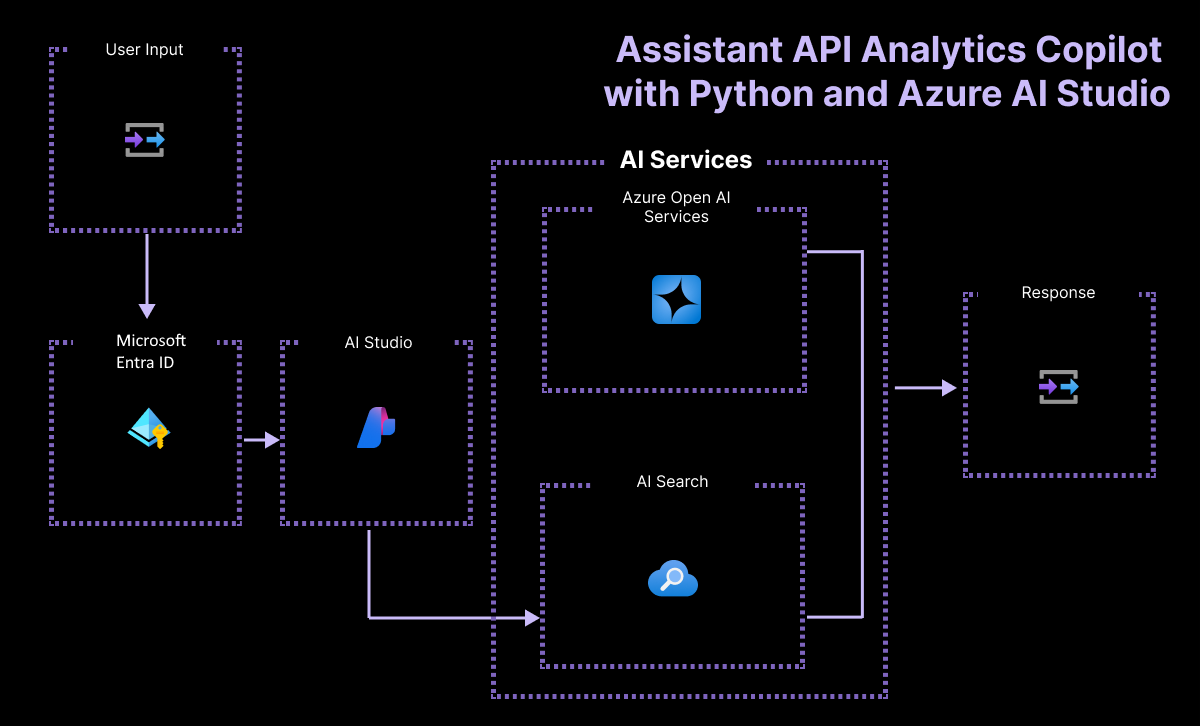
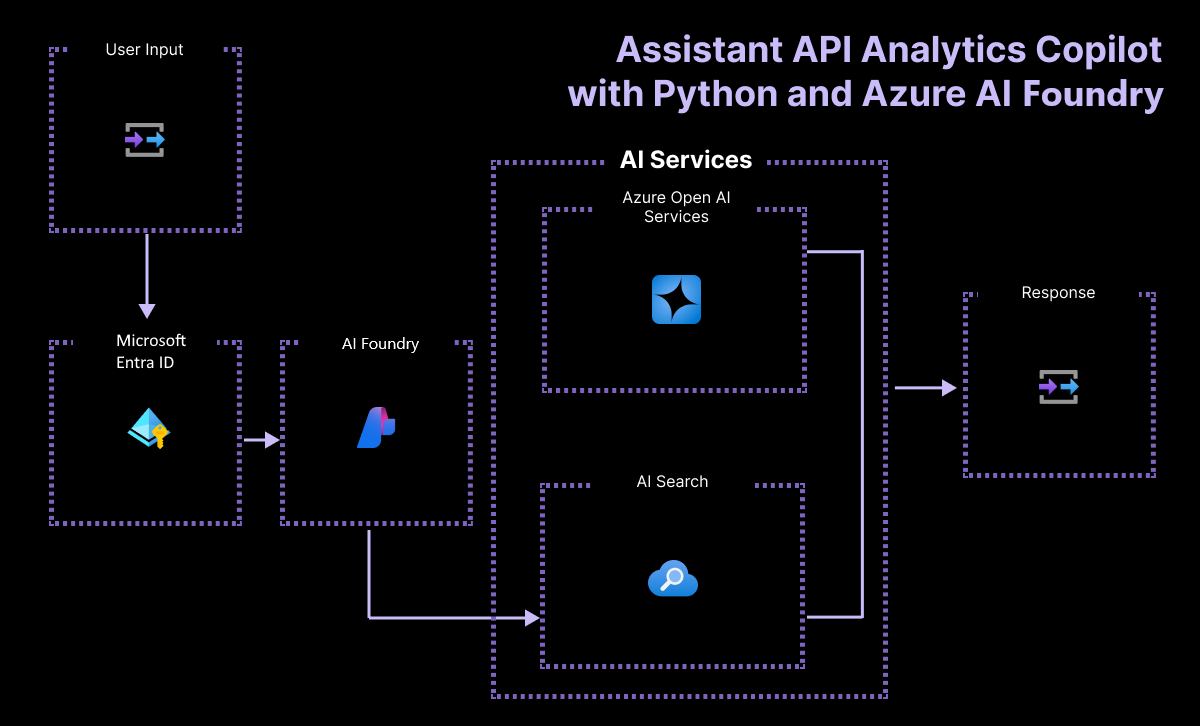
update ai studio to foundry

Changed region(s): [[0.4625, 0.0909, 0.9867, 0.1515], [0.2775, 0.4545, 0.3392, 0.4848]]

diff --git a/articles/azure-developer-cli/azure-ai-ml-endpoints.md b/articles/azure-developer-cli/azure-ai-ml-endpoints.md
@@ -1,6 +1,6 @@
 ---
-title: Deploy to an AI/ML studio online endpoint using the Azure Developer CLI
-description: Learn how to deploy to an AI/ML studio online endpoint using the Azure Developer CLI
+title: Deploy to an Azure AI Foundry portal/ML studio online endpoint using the Azure Developer CLI
+description: Learn how to deploy to an Azure AI Foundry portal/ML studio online endpoint using the Azure Developer CLI
 author: alexwolfmsft
 ms.author: alexwolf
 ms.date: 05/06/2024
@@ -9,9 +9,9 @@ ms.topic: how-to
 ms.custom: devx-track-azdevcli, build-2023
 ---
 
-# Deploy to an AI/ML studio online endpoint using the Azure Developer CLI
+# Deploy to an Azure AI Foundry portal/ML studio online endpoint using the Azure Developer CLI
 
-The Azure Developer CLI enables you to quickly and easily deploy to an [Azure ML Studio](https://ml.azure.com) or [Azure AI Studio](https://ai.azure.com) online endpoint. `azd` supports the following AI/ML studio features, which you'll learn to configure in the sections ahead:
+The Azure Developer CLI enables you to quickly and easily deploy to an [Azure ML Studio](https://ml.azure.com) or [Azure AI Foundry](https://ai.azure.com) online endpoint. `azd` supports the following Azure AI Foundry/ML studio features, which you'll learn to configure in the sections ahead:
 
 * Custom environments
   * Environments can be viewed with [Azure ML Studio](https://ml.azure.com/) under the `Environments` section.
@@ -19,14 +19,14 @@ The Azure Developer CLI enables you to quickly and easily deploy to an [Azure ML
   * Models can be viewed with [Azure ML Studio](https://ml.azure.com/) under the `models` section.
 * Prompt flows
   * Flows can be viewed with [Azure ML Studio](https://ml.azure.com/) under the `flows` section.
-  * Flows can be viewed with [Azure AI Studio](https://ai.azure.com/) under the `flows` section.
+  * Flows can be viewed with [Azure AI Foundry portal](https://ai.azure.com/) under the `flows` section.
 * Online deployments (within Online-Endpoint)
   * Deployments can be viewed with [Azure ML Studio](https://ml.azure.com/) under the `deployments` section.
-  * Deployments can be viewed with [Azure AI Studio](https://ai.azure.com/) under the `deployments` section.
+  * Deployments can be viewed with [Azure AI Foundry portal](https://ai.azure.com/) under the `deployments` section.
 
 ## Prerequisites
 
-To work with AI/ML studio online endpoints, you'll need the following:
+To work with Azure AI Foundry/ML studio online endpoints, you'll need the following:
 
 * [Azure Subscription](https://signup.azure.com/signup) with OpenAI access enabled
 * [AI Hub Resource](/azure/ai-studio/concepts/ai-resources)
@@ -35,15 +35,15 @@ To work with AI/ML studio online endpoints, you'll need the following:
 * [Online Endpoint](/azure/machine-learning/concept-endpoints-online)
 * [AI Search Service](/azure/search/) (Optional, enabled by default)
 
-The [AI Studio Starter template](https://github.com/Azure-Samples/azd-aistudio-starter) can help create all the required infrastructure to get started with AI Studio endpoints.
+The [Azure AI Foundry Starter template](https://github.com/Azure-Samples/azd-aistudio-starter) can help create all the required infrastructure to get started with Azure AI Foundry endpoints.
 
-## Configure the AI/ML studio online endpoint
+## Configure the Azure AI Foundry/ML studio online endpoint
 
-Configure support for AI/ML online endpoints in the `services` section of the `azure.yaml` file:
+Configure support for Azure AI Foundry/ML online endpoints in the `services` section of the `azure.yaml` file:
 
 * Set the `host` value to `ai.endpoint`.
 * The `config` section for `ai.endpoint` supports the following configurations:
-  * **workspace**: The name of the AI studio workspace. Supports `azd` environment variable substitutions and syntax.
+  * **workspace**: The name of the Azure AI Foundry workspace. Supports `azd` environment variable substitutions and syntax.
     * If not specified, `azd` will look for environment variable with name `AZUREAI_PROJECT_NAME`.
   * **environment**: Optional custom configuration for ML environments. `azd` creates a new  environment version from the referenced YAML file definition.
   * **flow**: Optional custom configuration for flows. `azd` creates a new prompt flow from the specified file path.
@@ -62,7 +62,7 @@ services:
     host: ai.endpoint
     # New config flow for AI project configuration
     config:
-      # The name of the AI studio workspace
+      # The name of the Azure AI Foundry workspace
       workspace: ${AZUREAI_PROJECT_NAME}
       # Optional: Path to custom ML environment manifest
       environment:

diff --git a/articles/ai/includes/intelligent-app-templates-python.md b/articles/ai/includes/intelligent-app-templates-python.md
@@ -52,9 +52,9 @@ This template demonstrates the use of these features.
 
 | Azure hosting solution | Technologies | AI models |
 |--|--|--|
-|Azure Container Registry<br>Azure Kubernetes<br>|Azure OpenAI<br>Bing Search<br>Azure Managed Identity<br>Azure Monitor<br>Azure AI Search<br>Azure AI Studio|GPT 3.5 Turbo<br>GPT 4.0<br>DALL-E|
+|Azure Container Registry<br>Azure Kubernetes<br>|Azure OpenAI<br>Bing Search<br>Azure Managed Identity<br>Azure Monitor<br>Azure AI Search<br>Azure AI Foundry|GPT 3.5 Turbo<br>GPT 4.0<br>DALL-E|
 
-### Contoso Chat Retail Copilot with AI Studio
+### Contoso Chat Retail Copilot with AI Foundry portal
 
 This template implements _Contoso Chat_ - a retail copilot solution for Contoso Outdoor that uses a _retrieval augmented generation_ design pattern to ground chatbot responses in the retailer's product and customer data. Customers can ask questions from the website in natural language, and get relevant responses with potential recommendations based on their purchase history - with responsible AI practices to ensure response quality and safety.
 
@@ -83,9 +83,9 @@ This template demonstrates the use of these features.
 
 | Azure hosting solution | Technologies | AI models |
 |--|--|--|
-|Azure Container Apps<br>|Azure OpenAI<br>Azure AI Search<br>Azure AI Studio<br>Prompty<br>Azure Cosmos DB|GPT 3.5 Turbo<br>GPT 4.0<br>Managed Integration Runtime (MIR)|
+|Azure Container Apps<br>|Azure OpenAI<br>Azure AI Search<br>Azure AI Foundry<br>Prompty<br>Azure Cosmos DB|GPT 3.5 Turbo<br>GPT 4.0<br>Managed Integration Runtime (MIR)|
 
-### Process automation with speech to text and summarization with AI Studio
+### Process automation with speech to text and summarization with AI Foundry portal
 
 This template creates a web-based app that allows workers at a company called Contoso Manufacturing to report issues via text or speech. Audio input is translated to text and then summarized to highlight important information and the report is sent to the appropriate department.
 
@@ -103,9 +103,9 @@ This template demonstrates the use of these features.
 
 | Azure hosting solution | Technologies | AI models |
 |--|--|--|
-|Azure Container Apps|Azure AI Studio<br>Speech to Text Service<br>Prompty<br>Managed Integration Runtime (MIR)|GPT 3.5 Turbo|
+|Azure Container Apps|Azure AI Foundry<br>Speech to Text Service<br>Prompty<br>Managed Integration Runtime (MIR)|GPT 3.5 Turbo|
 
-### Assistant API Analytics Copilot with Python and Azure AI Studio
+### Assistant API Analytics Copilot with Python and Azure AI Foundry portal
 
 This template is an Assistant API to chat with tabular data and perform analytics in natural language.
 
@@ -123,4 +123,4 @@ This template demonstrates the use of these features.
 
 | Azure hosting solution | Technologies | AI models |
 |--|--|--|
-|Machine Learning service|Azure AI Search<br>Azure AI Studio<br>Managed Integration Runtime (MIR)<br>Azure OpenAI|GPT 3.5 Turbo<br>GPT 4|
+|Machine Learning service|Azure AI Search<br>Azure AI Foundry<br>Managed Integration Runtime (MIR)<br>Azure OpenAI|GPT 3.5 Turbo<br>GPT 4|

diff --git a/articles/ai/introduction-build-generative-ai-solutions.md b/articles/ai/introduction-build-generative-ai-solutions.md
@@ -122,7 +122,7 @@ Alternatively, some of the logic required by the solution could be built quickly
 
 |Product|Description|
 |---|---|
-|**Azure AI Studio**|Azure AI Studio could be used for training, testing, and deploying custom machine learning models that could enhance the RAG-chat system. For example, use Azure AI Studio to  customize response generation or improve the relevance of retrieved information.|
+|**Azure AI Foundry portal**|Azure AI Foundry portal could be used for training, testing, and deploying custom machine learning models that could enhance the RAG-chat system. For example, use Azure AI Foundry portal to  customize response generation or improve the relevance of retrieved information.|
 
 ### Vector database
 

diff --git a/articles/ai/includes/intelligent-app-templates-dotnet.md b/articles/ai/includes/intelligent-app-templates-dotnet.md
@@ -46,7 +46,7 @@ This template demonstrates the use of these features.
 
 | Azure hosting solution | Technologies | AI models |
 |--|--|--|
-|Azure Container Apps<br>|Azure OpenAI<br>Microsoft Entra ID<br>Azure Managed Identity<br>Azure Monitor<br>Azure AI Search<br>Azure AI Studio<br>Azure SQL<br>Azure Storage|GPT 3.5 Turbo<br>GPT 4.0|
+|Azure Container Apps<br>|Azure OpenAI<br>Microsoft Entra ID<br>Azure Managed Identity<br>Azure Monitor<br>Azure AI Search<br>Azure AI Foundry<br>Azure SQL<br>Azure Storage|GPT 3.5 Turbo<br>GPT 4.0|
 
 
 ### Process automation with speech to text and summarization with .NET and GPT 3.5 Turbo
